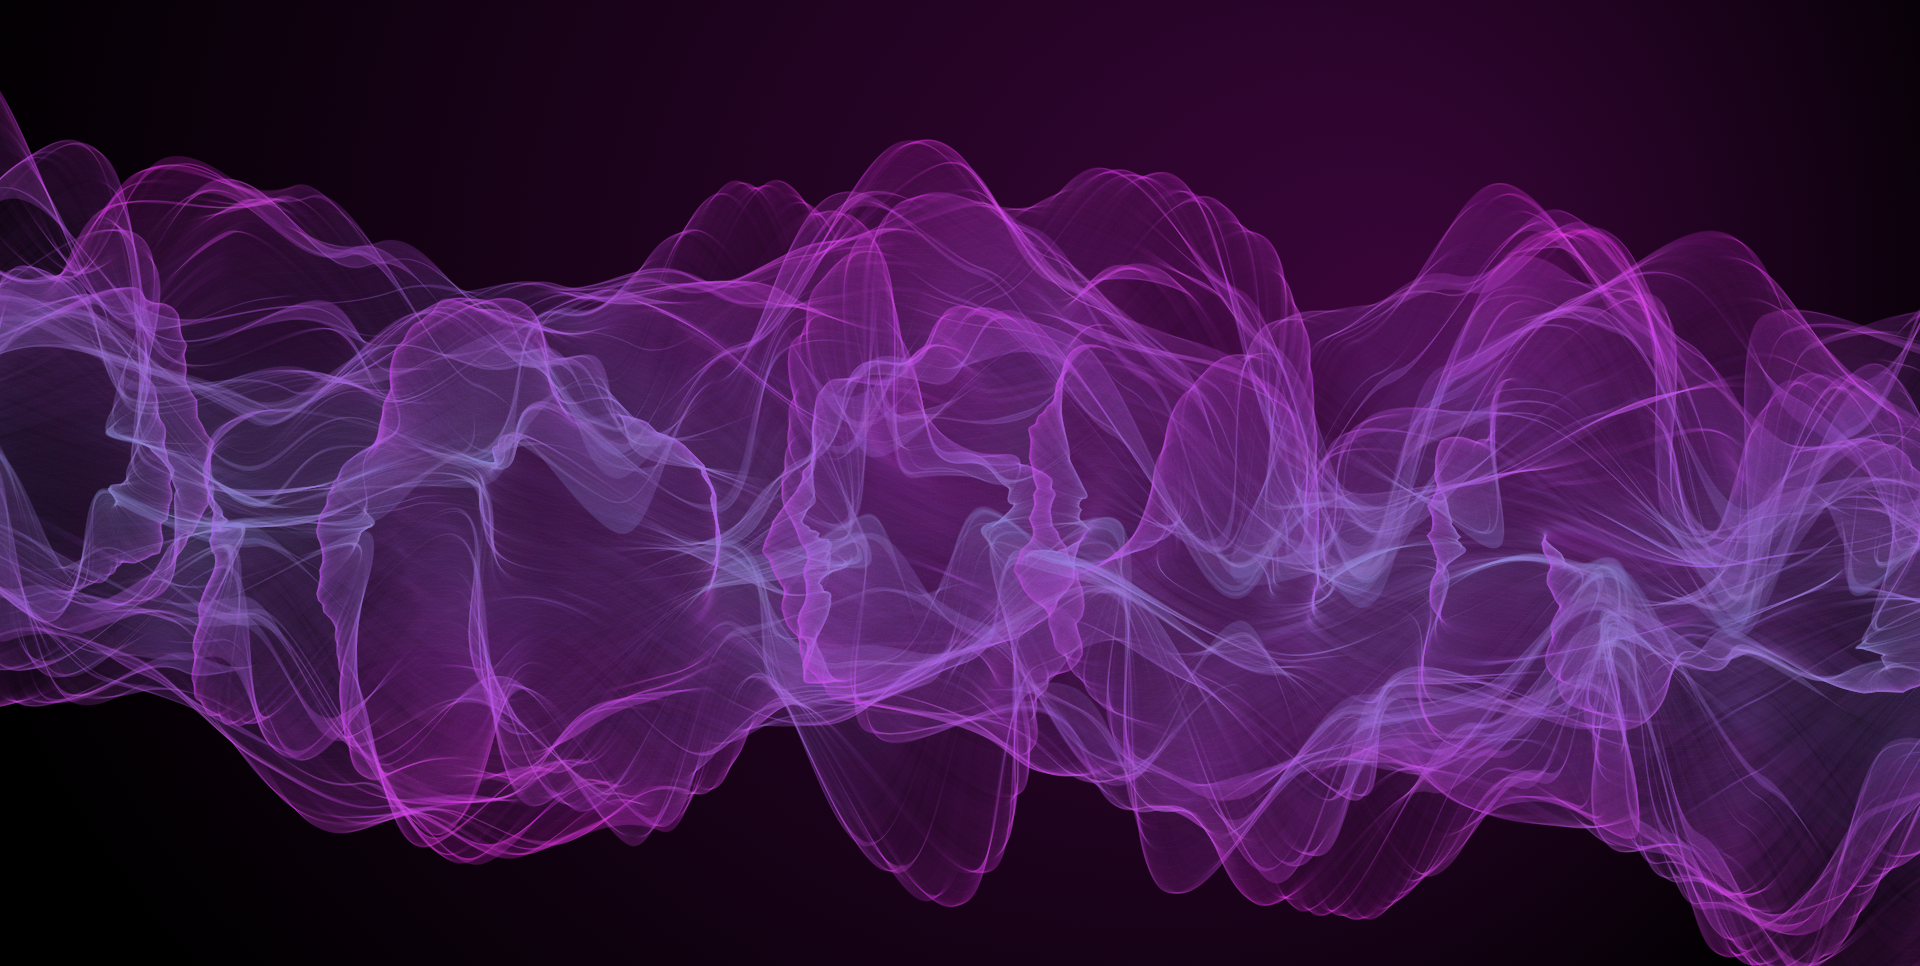
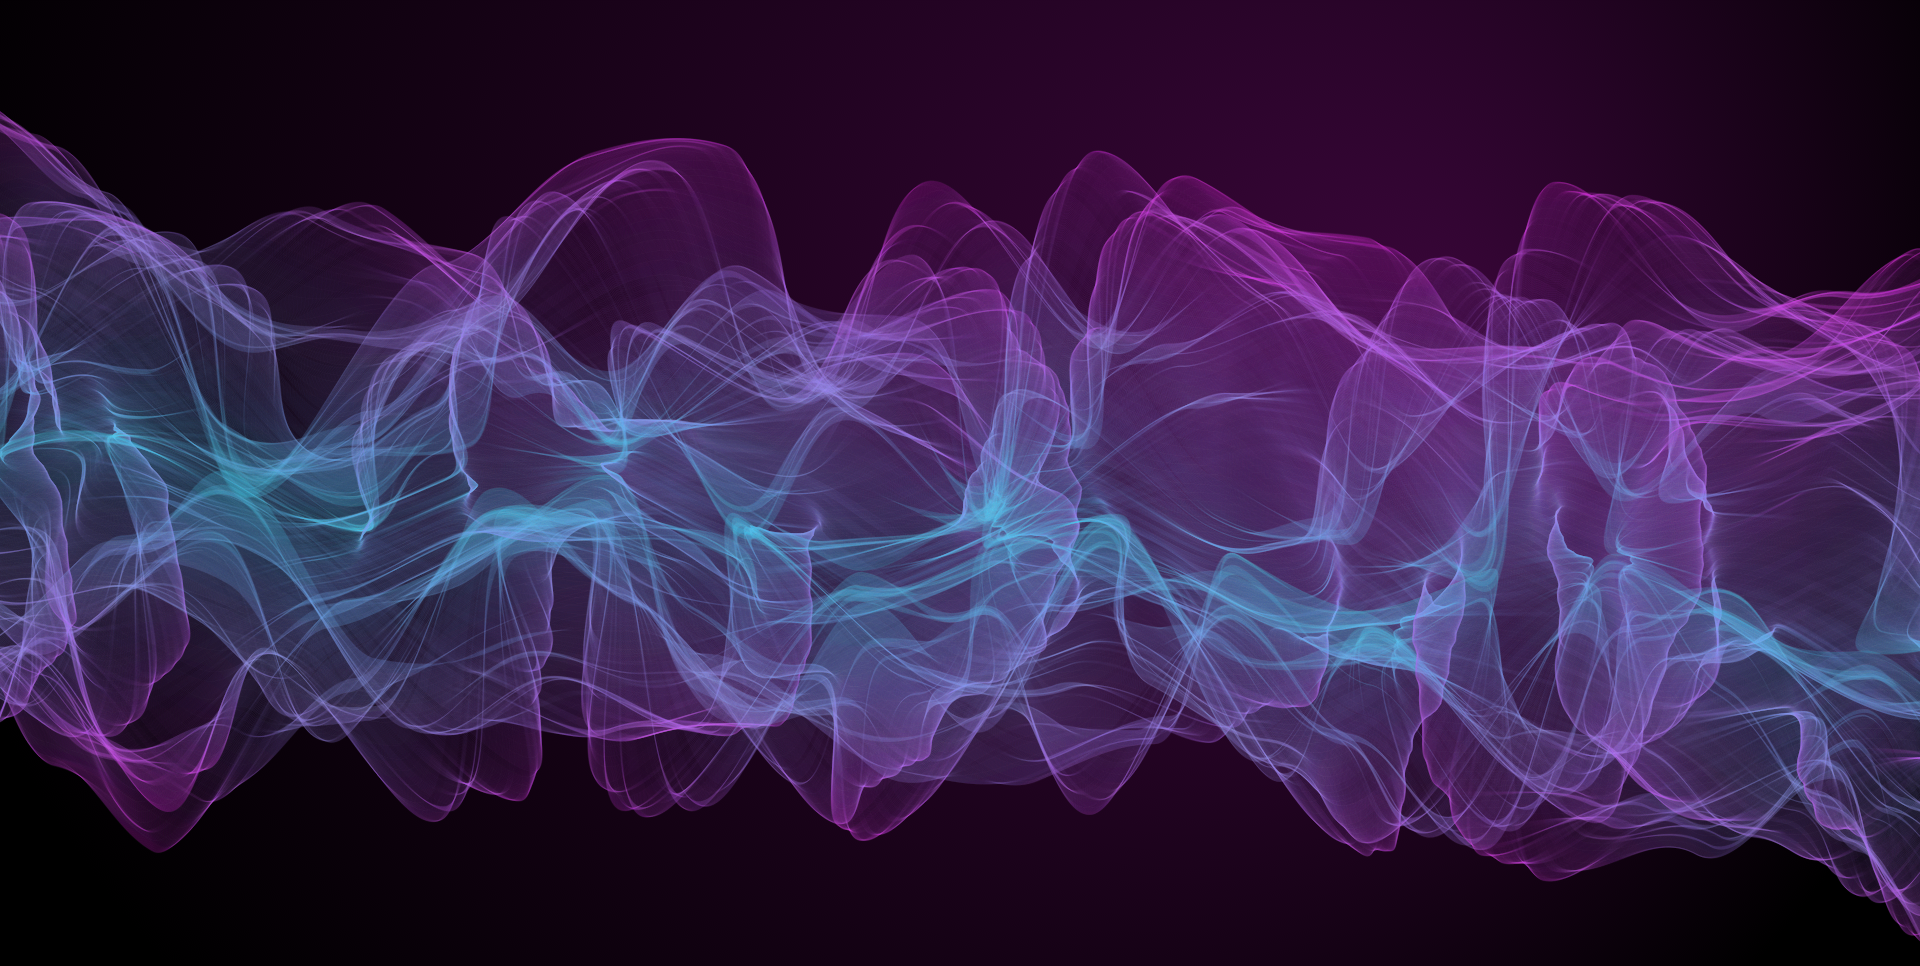
initial commit

diff --git a/style/main.css b/style/main.css
@@ -11,7 +11,7 @@
 }
 
 body{
-    background: url('indeks2.png') 0/cover;
+    background: url('indeks.png') 0/cover;
     font-size: 20px;
     font-family: 'Lato';
 }
